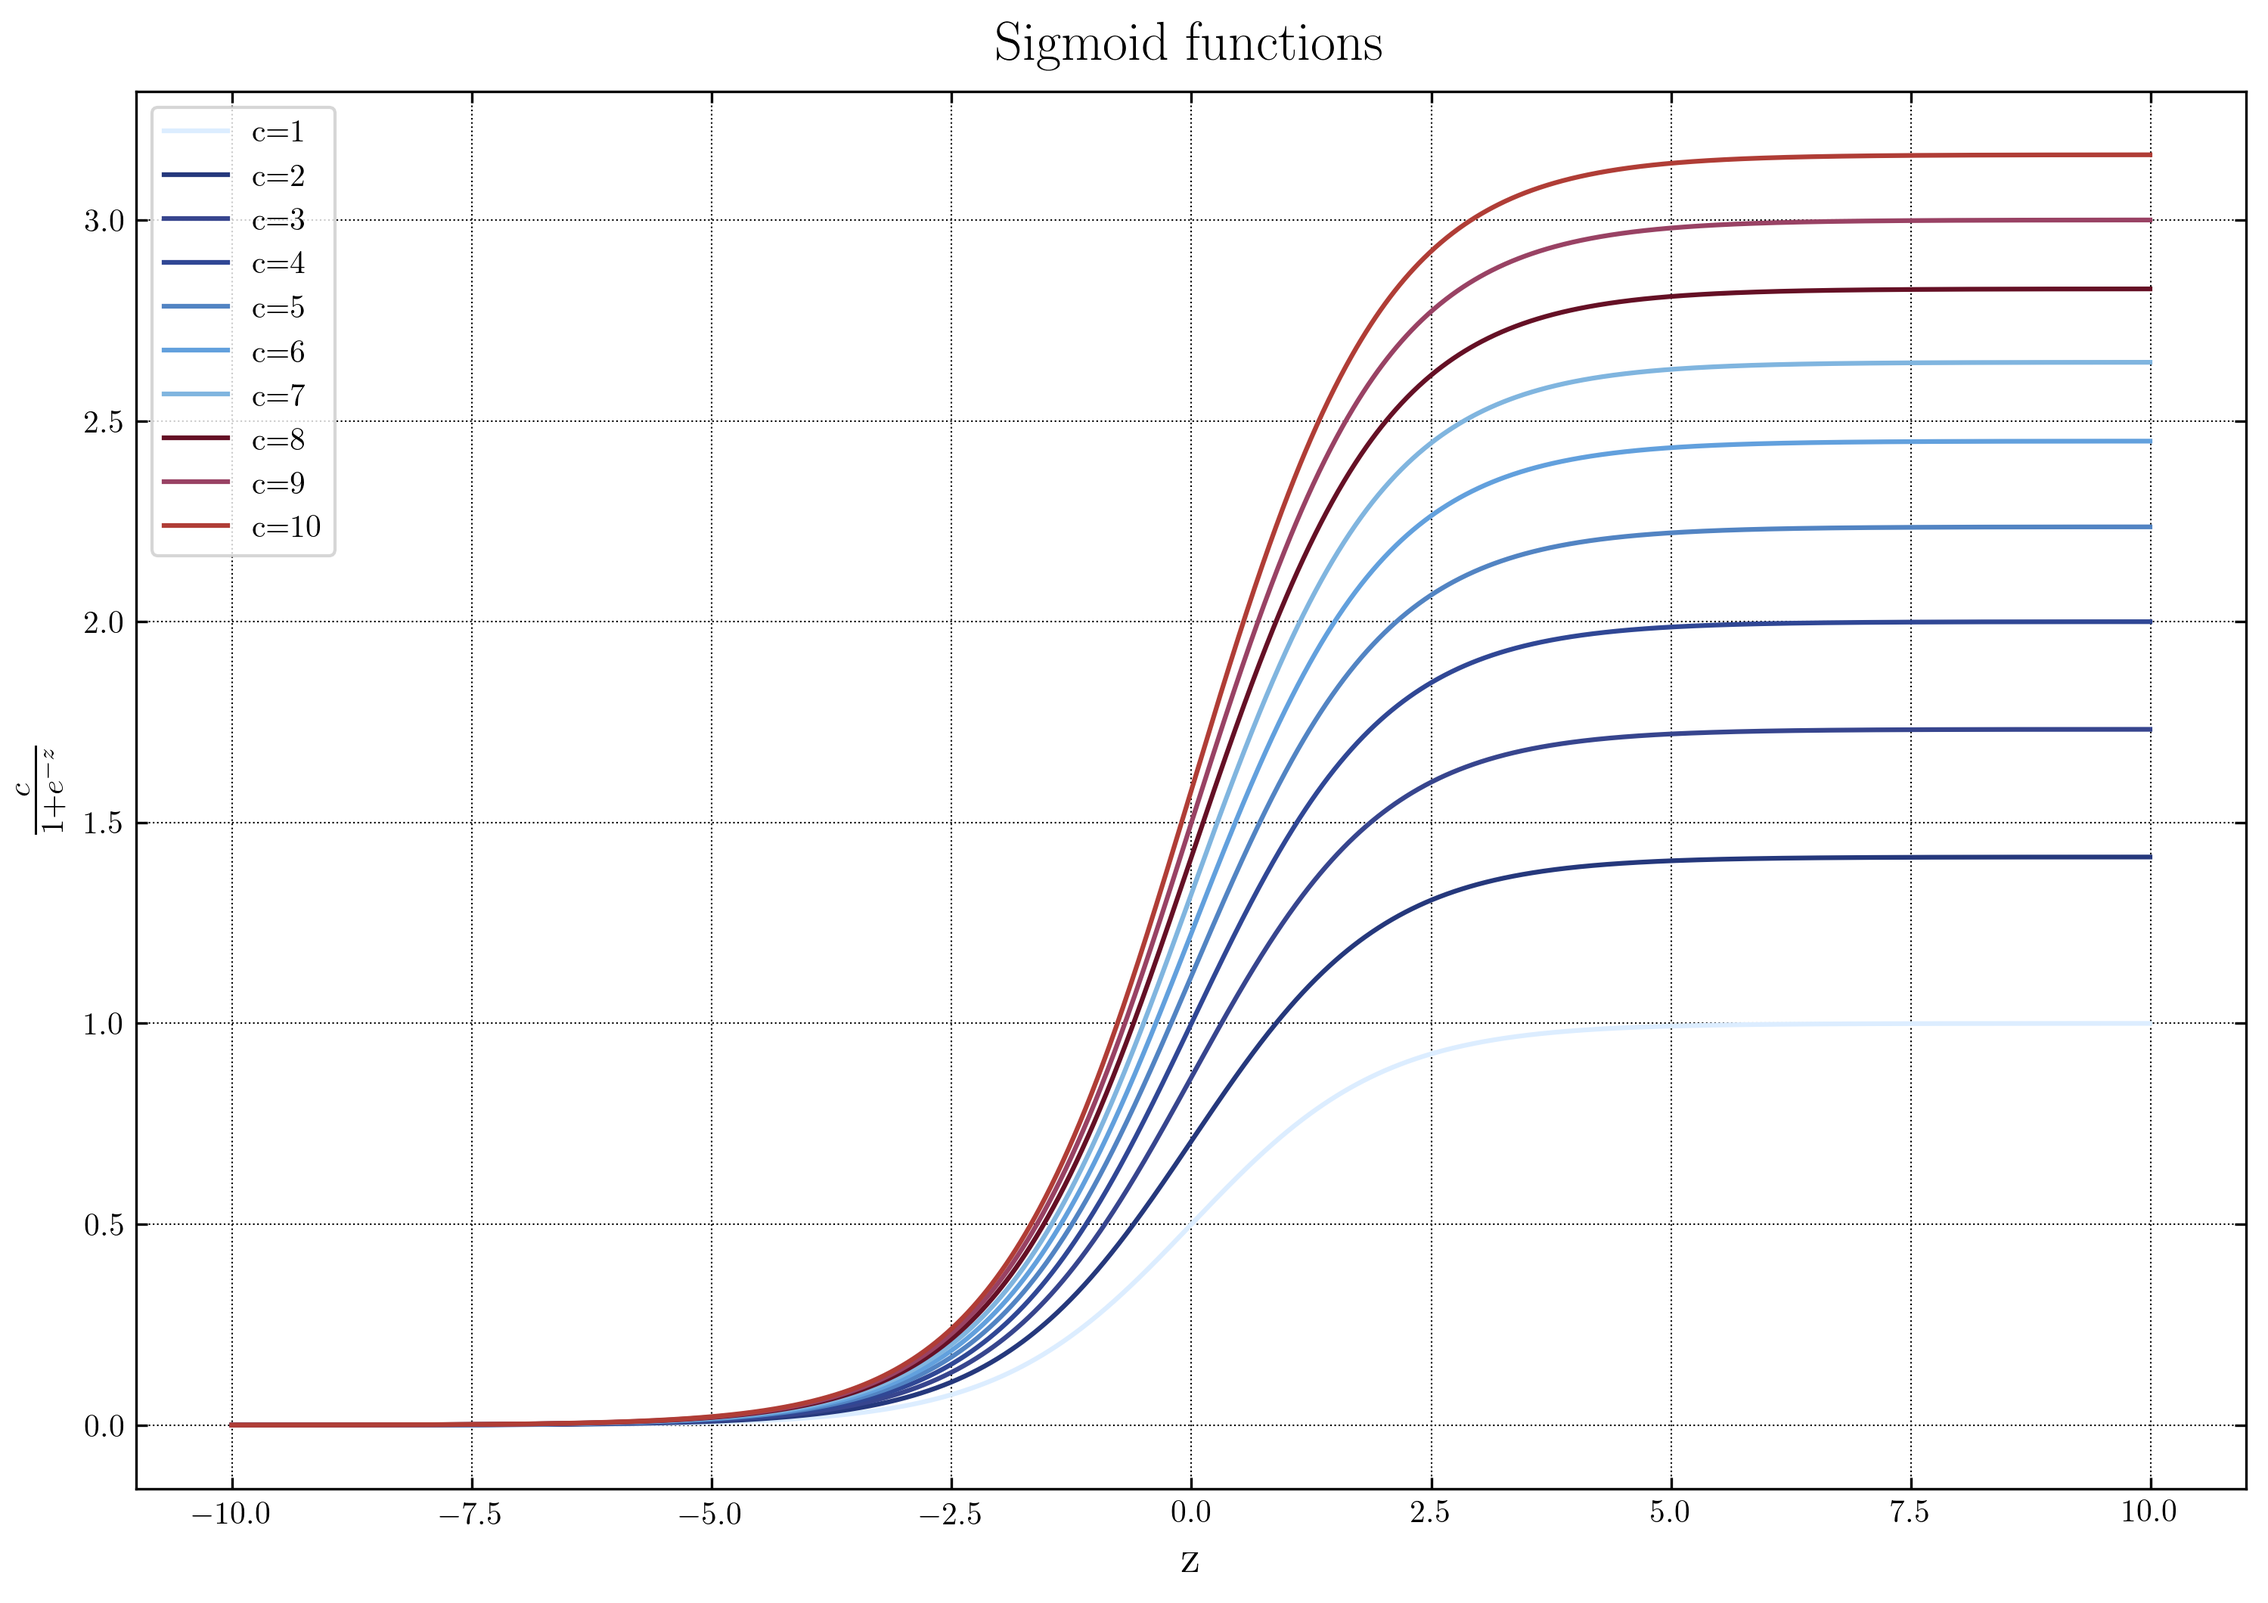
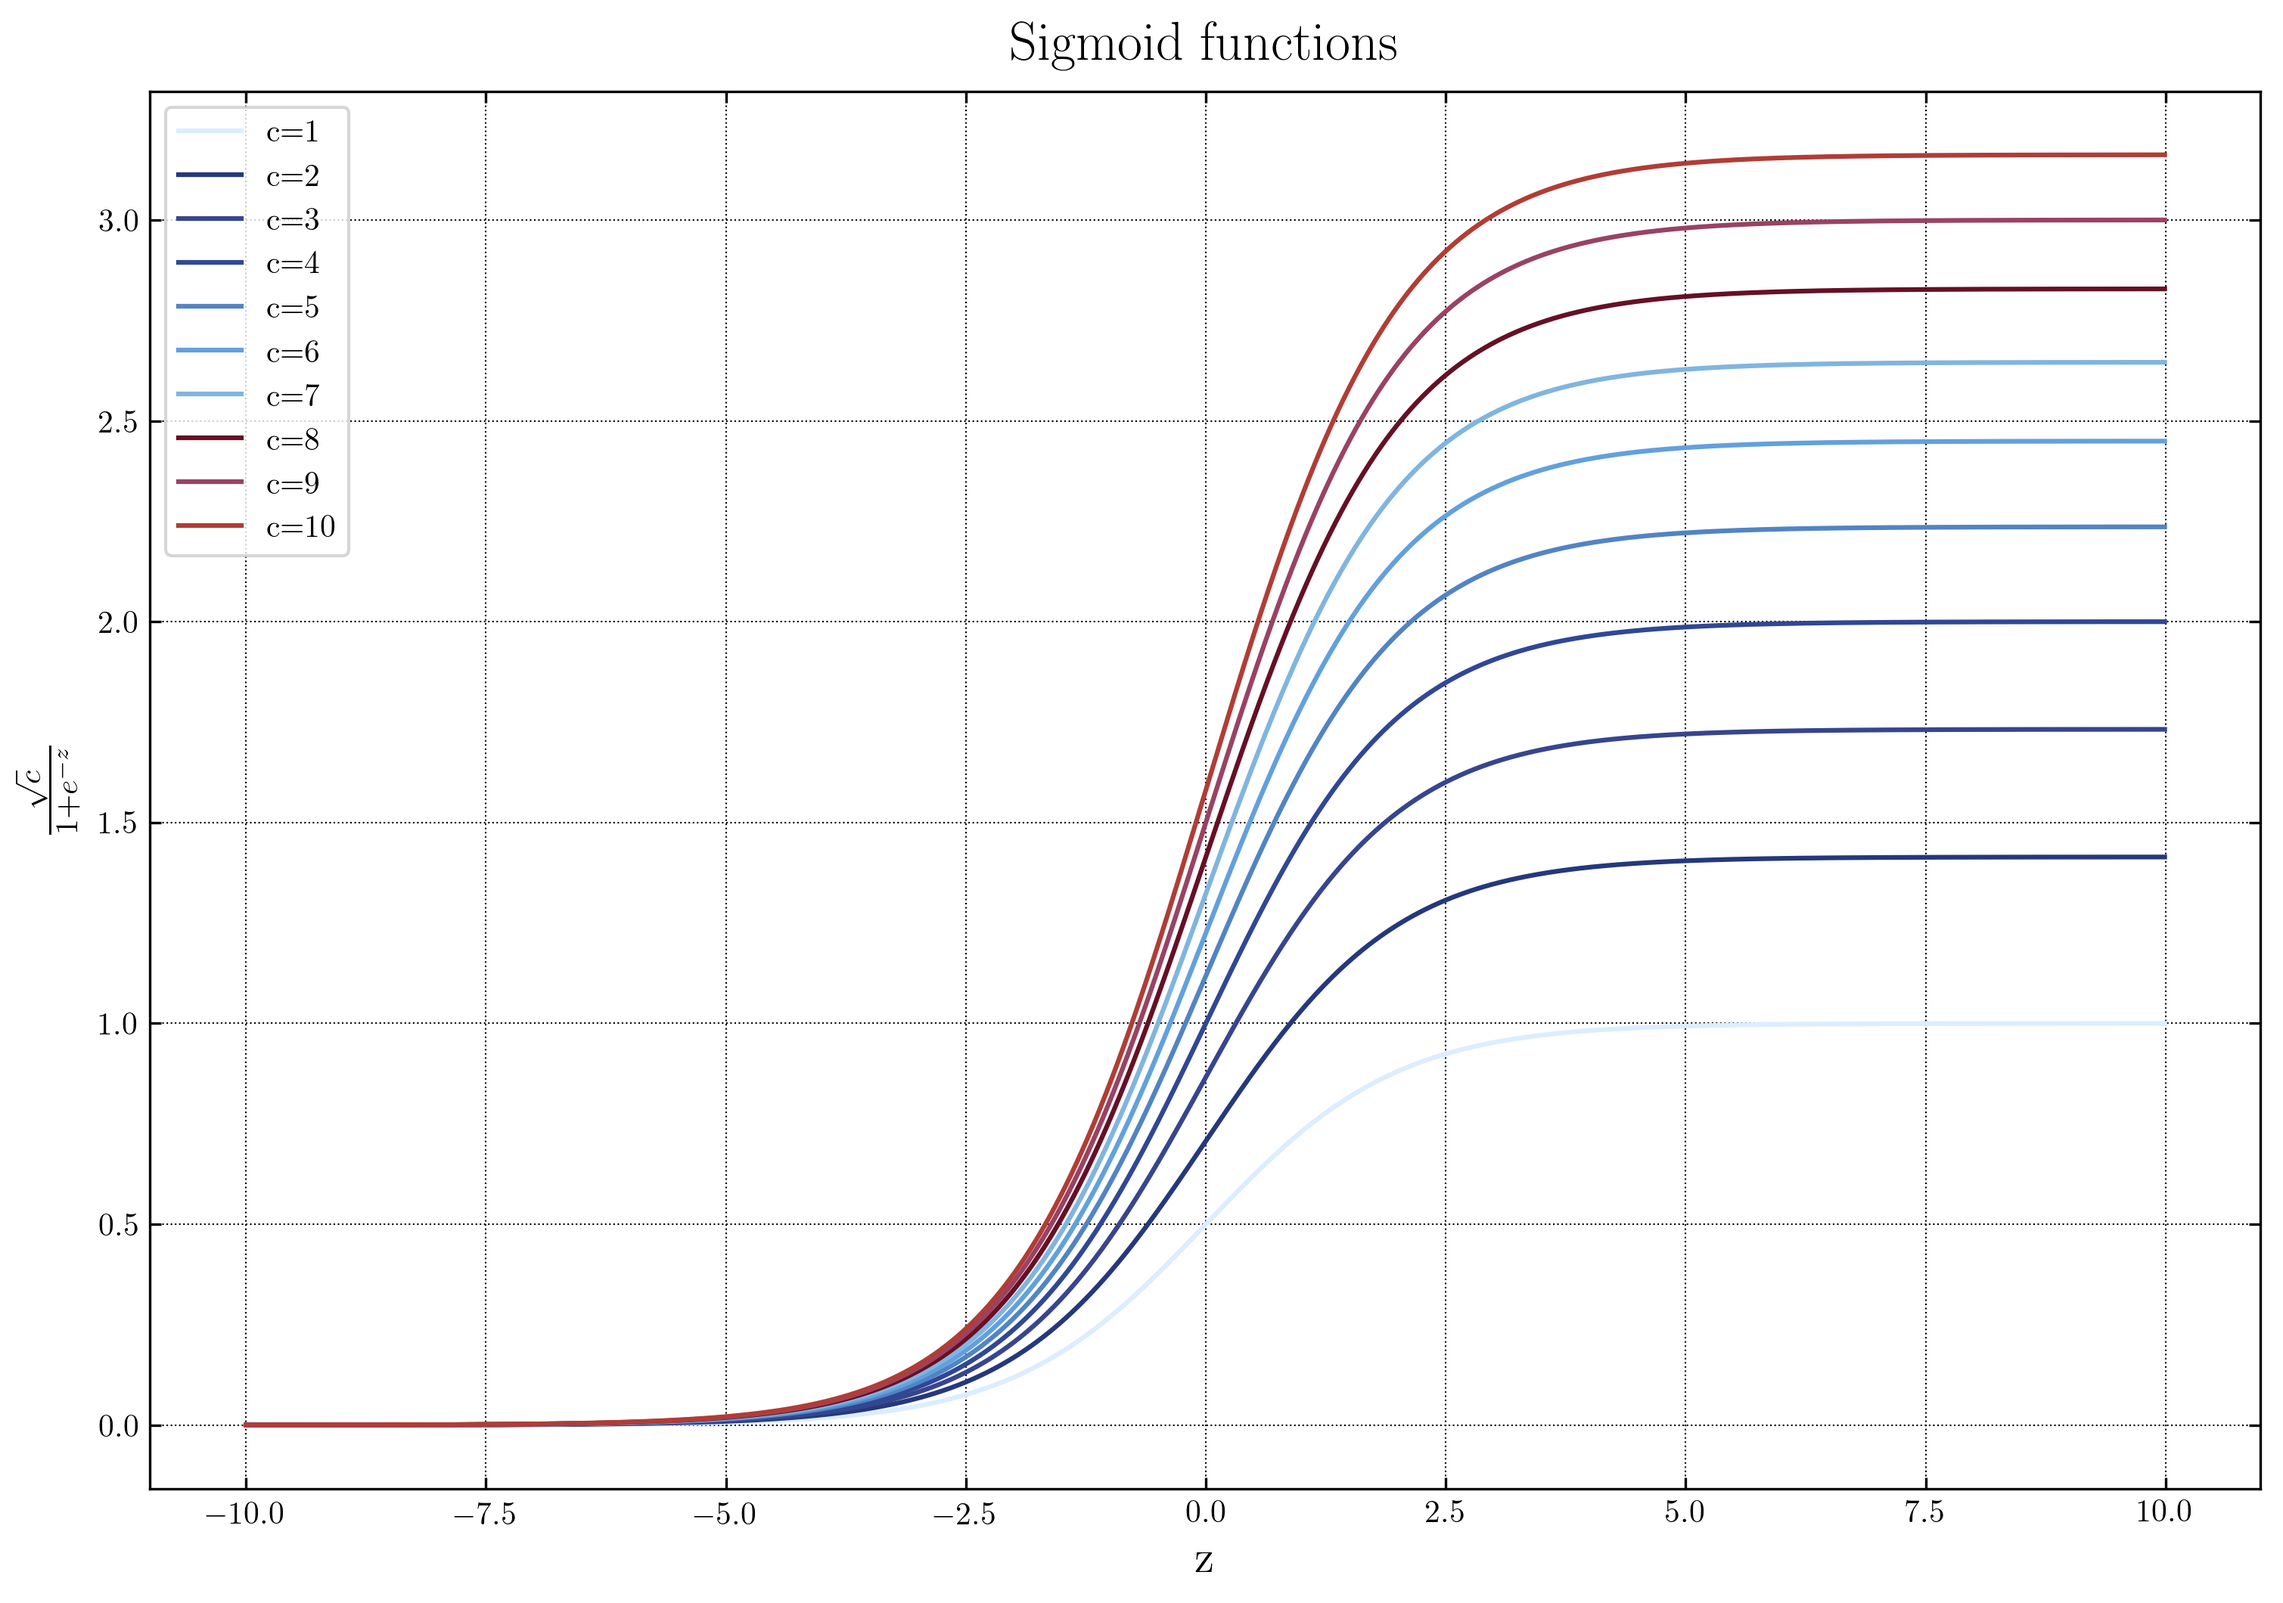
update sigmoid

diff --git a/examples.py b/examples.py
@@ -13,13 +13,12 @@ def sigmoid(z, c):
 sig_fn = np.vectorize(sigmoid)
 
 x = np.arange(-10, 10, .01)
-y =  sig_fn(x, 3)
 
 for c in range(1,11):
     plt.plot(x,sig_fn(x, np.sqrt(c)), label = 'c=' + str(c))
 plt.title('Sigmoid functions')
 plt.legend()
-plt.ylabel(r"$\frac{c}{1 + e^{-z}}$")
+plt.ylabel(r"$\frac{\sqrt{c}}{1 + e^{-z}}$")
 plt.xlabel('z')
 plt.savefig('example_figures/sigmoid.png')
 plt.show()

diff --git a/README.md b/README.md
@@ -34,18 +34,19 @@ style_classic('ponyo')
 
 def sigmoid(z, c):
     return c/(1 + np.exp(-z))
+
 sig_fn = np.vectorize(sigmoid)
 
 x = np.arange(-10, 10, .01)
-y =  sig_fn(x, 3)
 
 for c in range(1,11):
     plt.plot(x,sig_fn(x, np.sqrt(c)), label = 'c=' + str(c))
 plt.title('Sigmoid functions')
 plt.legend()
-plt.ylabel(r"$\frac{c}{1 + e^{-z}}$")
+plt.ylabel(r"$\frac{\sqrt{c}}{1 + e^{-z}}$")
 plt.xlabel('z')
-
+plt.savefig('example_figures/sigmoid.png')
+plt.show()
 ```
 
  <p align="center">
